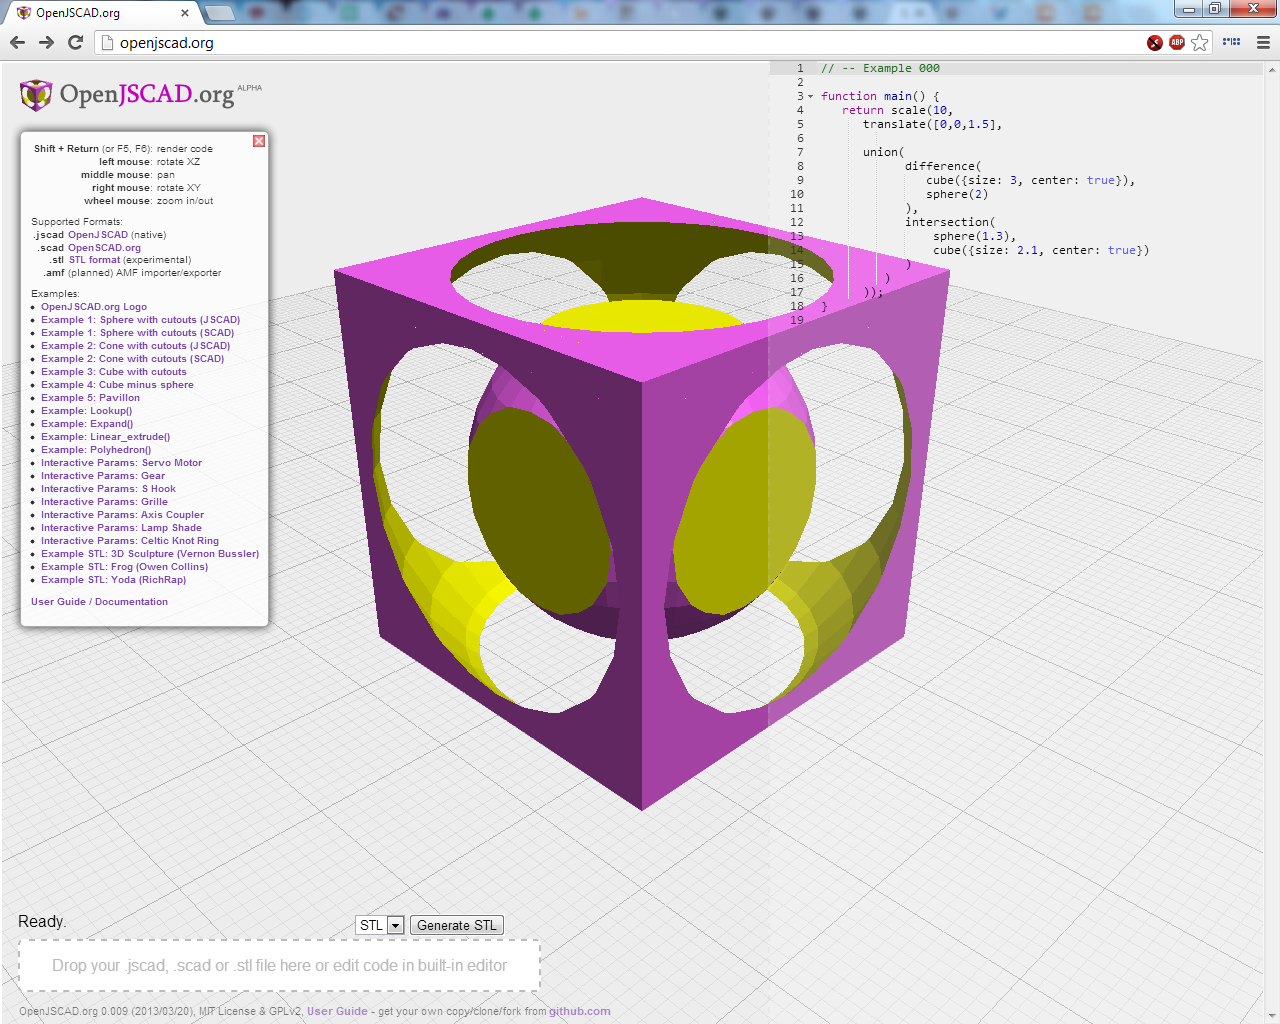
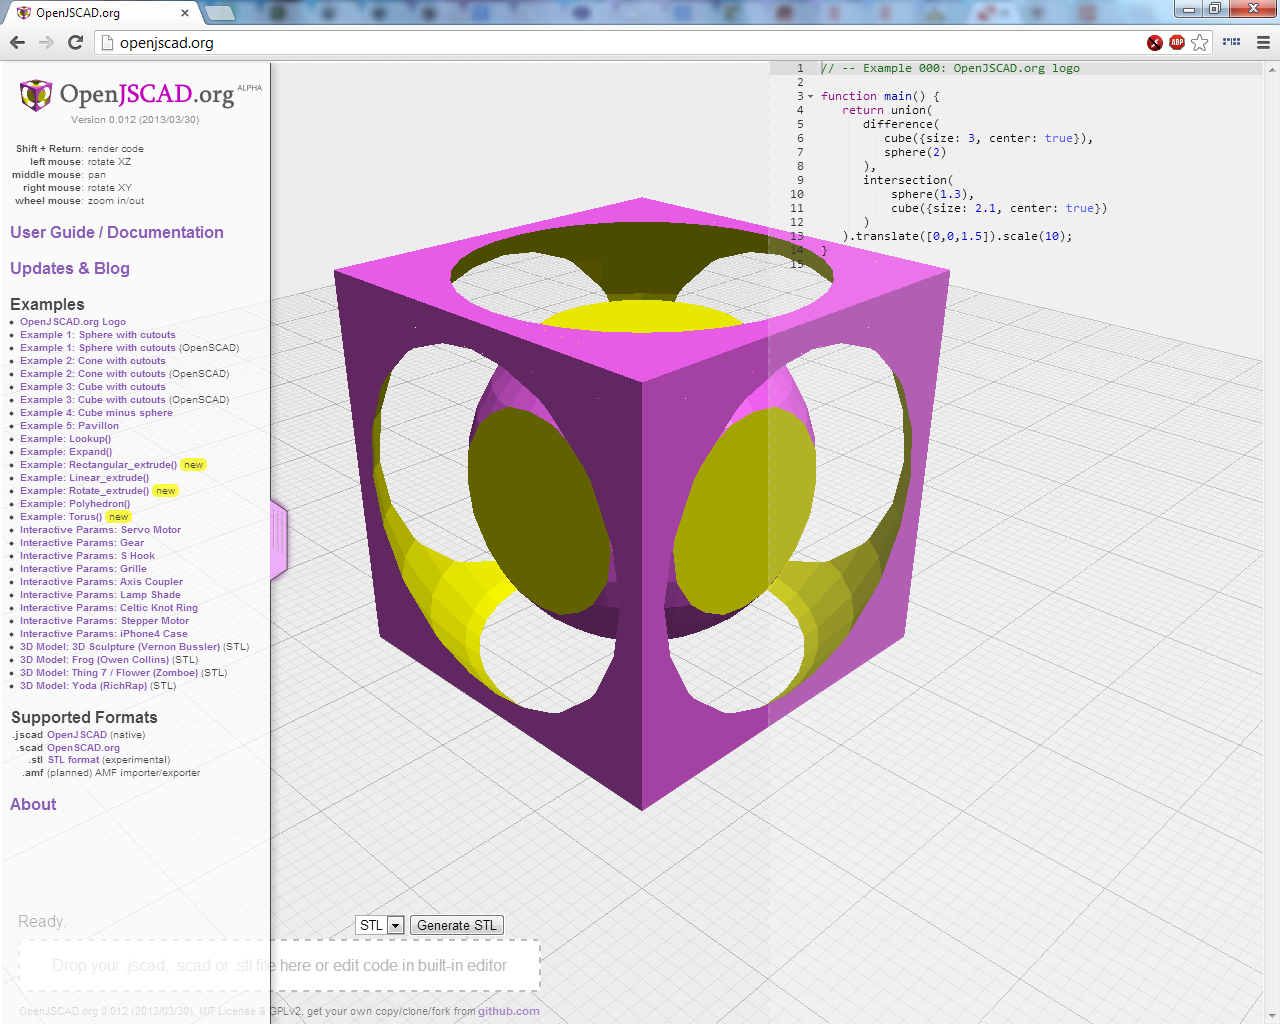
0.012: improved menu (slider from left)

diff --git a/index.html b/index.html
@@ -38,7 +38,6 @@ Todo:
 <link rel="stylesheet" href="openjscad.css" type="text/css">
 <script lang=JavaScript>
 var version = '0.012 (2013/03/30)';
-   $(function() { $("#hint").draggable(); });
    //$(function() { $("#parametersdiv").draggable(); }); // doesn't work well, disabled
 $(document).ready(function() {
    $("#menu").height($(document).height());
@@ -47,7 +46,6 @@ $(document).ready(function() {
       $("#menuHandle").css({top: '45%'});
    });
    setTimeout( function(){$('#menu').css('left','-270px');},3000);
-   //setTimeout( function(){$('#hint').css('display','none');},15000);
 });   
 </script>
 </head>
